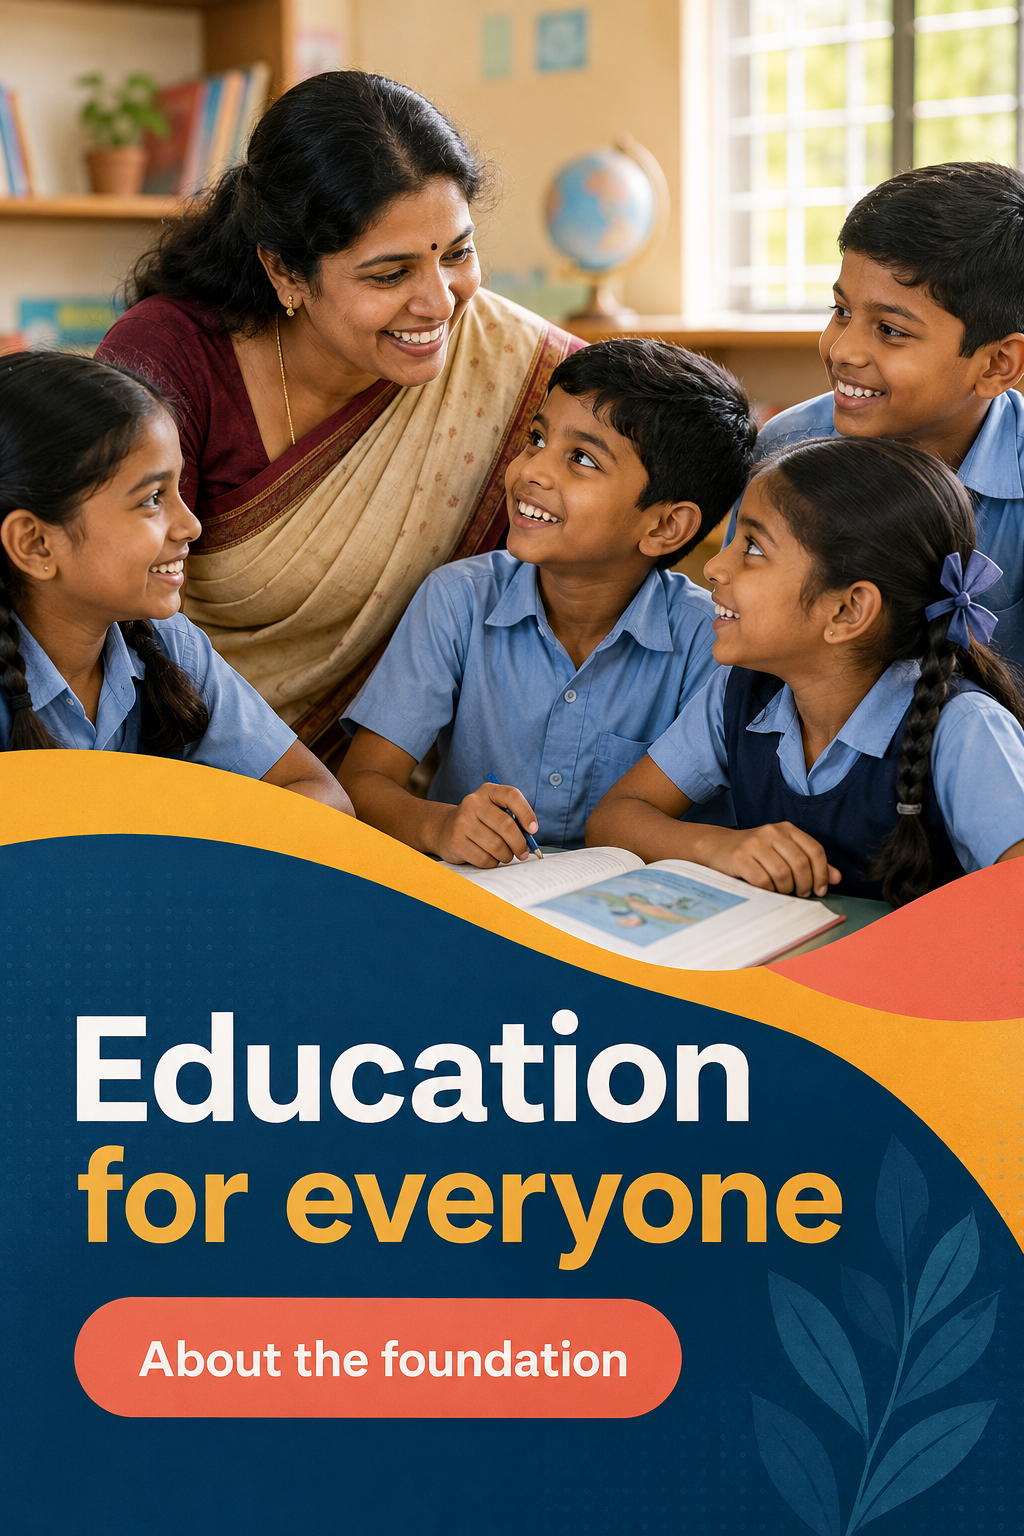
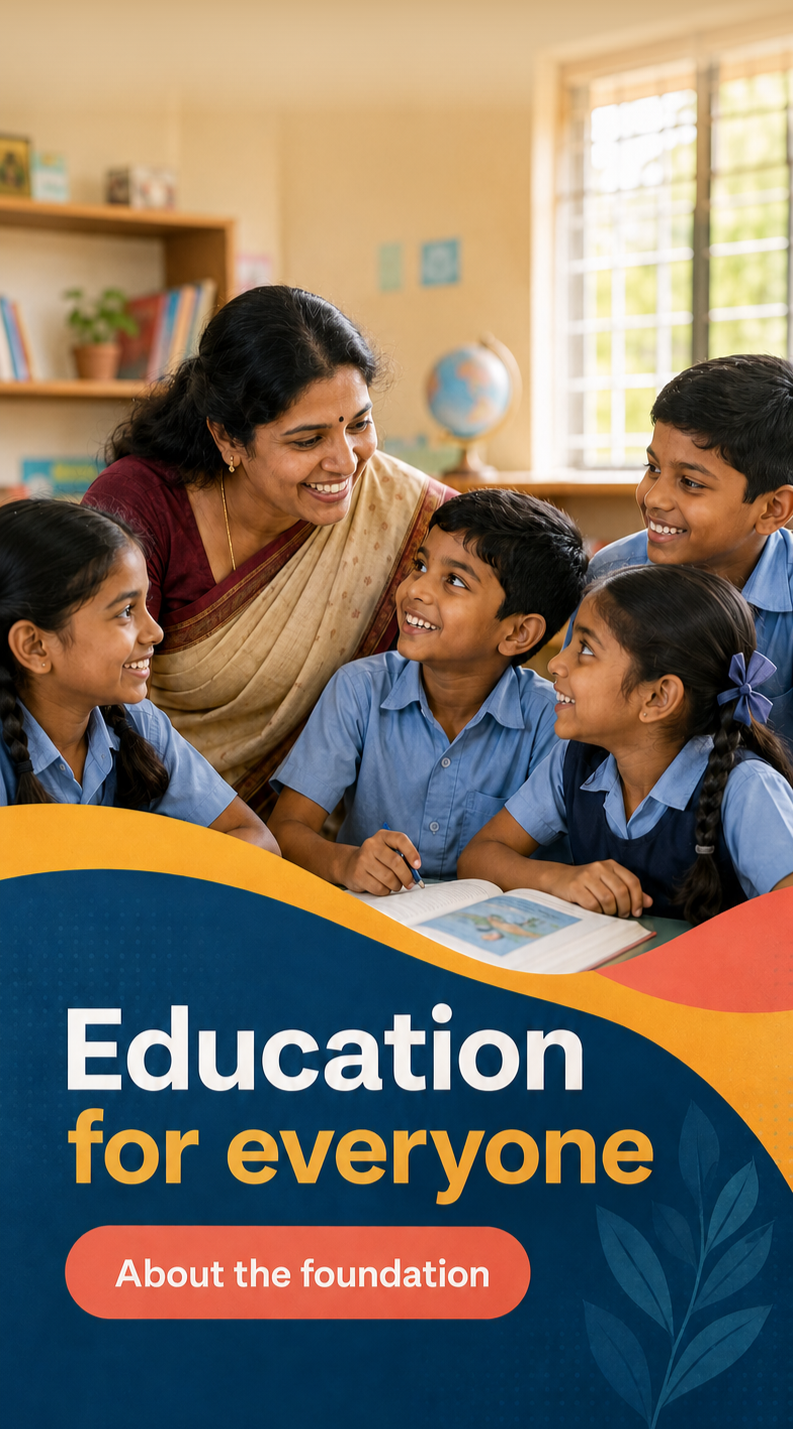
hero section image update

diff --git a/src/sections/Navbar.tsx b/src/sections/Navbar.tsx
@@ -1,4 +1,4 @@
-import { useState } from 'react'
+import { useEffect, useState } from 'react'
 import { Menu, X } from 'lucide-react'
 import logo from '@/assets/uef-logo.png'
 
@@ -11,11 +11,23 @@ const links = [
 ]
 
 export function Navbar() {
+  const [scrolled, setScrolled] = useState(false)
   const [open, setOpen] = useState(false)
+
+  useEffect(() => {
+    const onScroll = () => setScrolled(window.scrollY > 40)
+    onScroll()
+    window.addEventListener('scroll', onScroll, { passive: true })
+    return () => window.removeEventListener('scroll', onScroll)
+  }, [])
+
+  const solid = scrolled || open
 
   return (
     <header
-      className="sticky top-0 z-50 bg-white/95 shadow-lg shadow-navy-900/5 backdrop-blur"
+      className={`fixed inset-x-0 top-0 z-50 transition-all duration-300 ${
+        solid ? 'bg-white/95 shadow-lg shadow-navy-900/5 backdrop-blur' : 'bg-transparent'
+      }`}
     >
       <nav className="mx-auto flex max-w-7xl items-center justify-between px-5 py-4 lg:px-8">
         <a href="#top" className="flex items-center gap-3">
